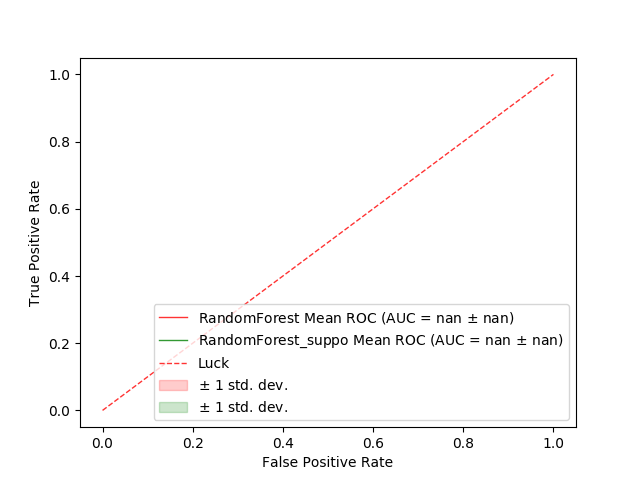
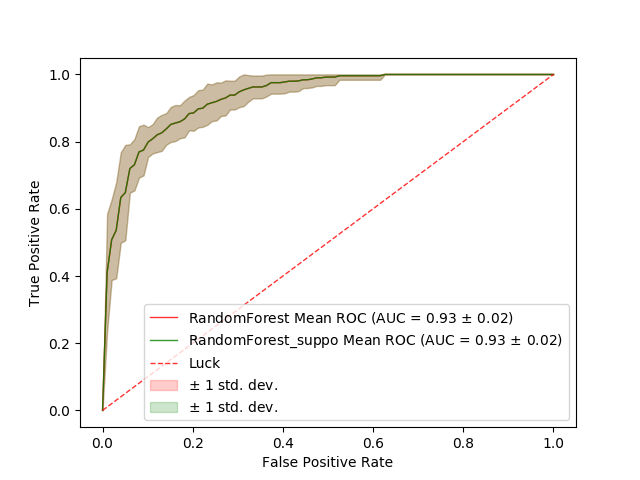
AUC comparison

diff --git a/detect_DGA.py b/detect_DGA.py
@@ -101,18 +101,25 @@ def roc_comparison(clfs=clfs, n_samples=n_samples):
     train and calculates the mean ROC curve of all the classifier in the clfs dictionary
     :return: dictionary of plot datas needed by plot_module.plot_AUC()
     """
-    X, y = load_features_dataset()
-    # X2, y2 = load_features_dataset(
-    #     dataset=os.path.join(basedir, "datas/suppobox_dataset.csv"))
-    # X = np.concatenate((X1, X2), axis=0)
-    # y = np.concatenate((y1, y2), axis=0)
+    X1, y1 = load_features_dataset(n_samples=int(n_samples * 0.8))
+    X2, y2 = load_features_dataset(
+        dataset=os.path.join(basedir, "datas/suppobox_dataset.csv"),
+        n_samples=int(n_samples * 0.2))
 
+    X = np.concatenate((X1, X2), axis=0)
+    y = np.concatenate((y1, y2), axis=0)
+
+    from sklearn.utils import shuffle
+    X, y = shuffle(X, y, random_state=RandomState())
+
+    logger.debug("X: %s" % str(X.shape))
+    logger.debug("y: %s" % str(y.shape))
     tprs = []
     aucs = []
     mean_fpr = np.linspace(0, 1, 100)
 
     cv = KFold(n_splits=10)
-    plot_datas={}
+    plot_datas = {}
     for index, (clf_name, clf_value) in enumerate(clfs.iteritems()):
         # for each clf in the pipepline
         # pipeline.set_params(**{'clf': clf_value})
@@ -147,6 +154,7 @@ def roc_comparison(clfs=clfs, n_samples=n_samples):
 
     plot_AUC(plot_datas,
              n_samples=n_samples)
+
 
 def pipeline_grid_search():
     X, y = generate_domain_dataset(n_samples)
@@ -281,6 +289,6 @@ if __name__ == "__main__":
         "RandomForest": joblib.load(os.path.join(basedir, "models/model_RandomForest.pkl")),
         "RandomForest_suppo": joblib.load(os.path.join(basedir, "models/model_RandomForest_suppo.pkl")),
     }
-    roc_comparison(clfs=trained_clfs)
+    roc_comparison(clfs=trained_clfs, n_samples=50000)
     logger.info("Exiting...")
     rmtree(cachedir)  # clearing pipeline cache
